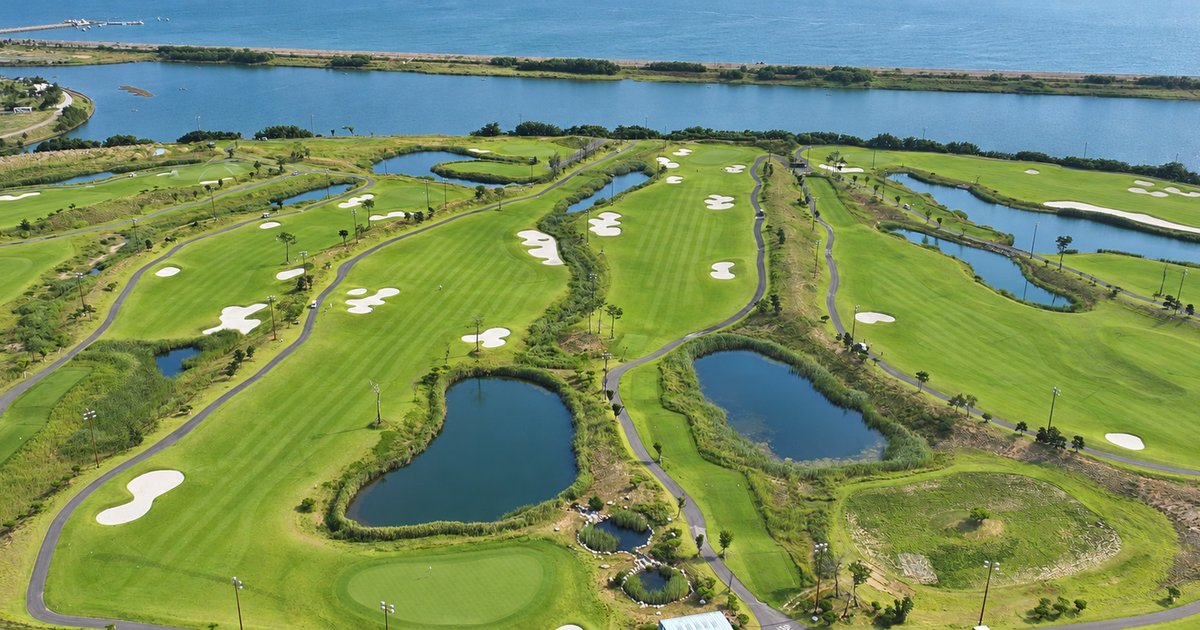
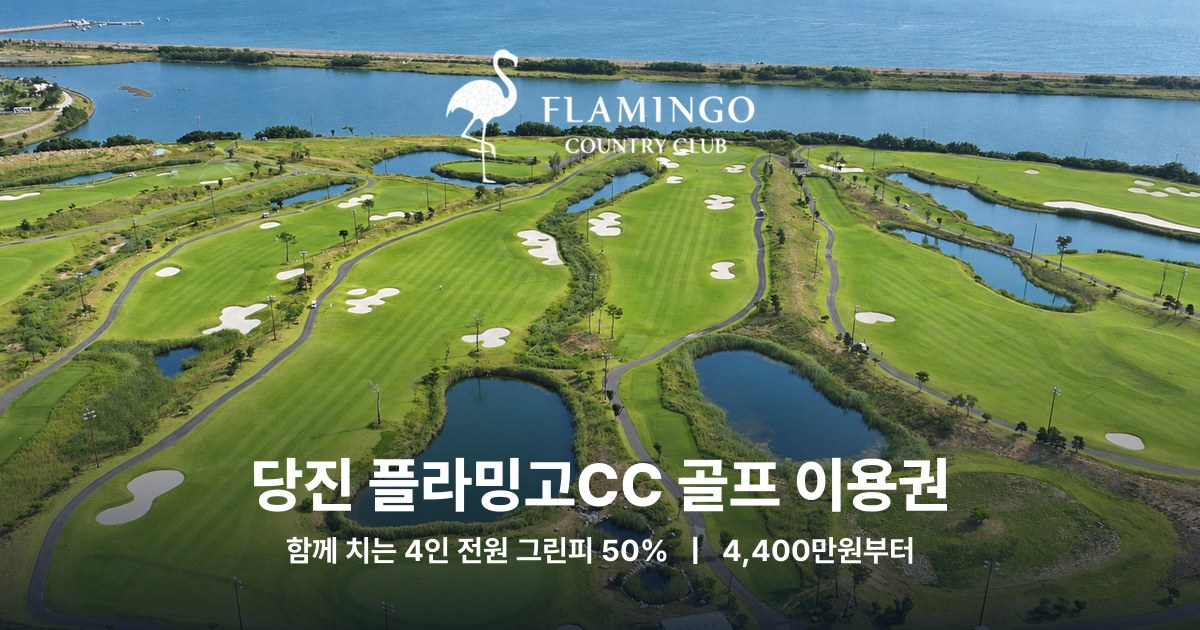
OG 이미지: 항공 사진 + 흰 로고 + 제목·훅

diff --git a/index.html b/index.html
@@ -17,7 +17,7 @@
   <meta property="og:url" content="https://culeisure.github.io/flamingocc/" />
   <meta property="og:title" content="당진 플라밍고CC 이용권" />
   <meta property="og:description" content="4인 전원 그린피 50% 할인. P3 4,400만원 · P4 9,900만원, 10년 만기 이용권" />
-  <meta property="og:image" content="https://culeisure.github.io/flamingocc/img/og.jpg" />
+  <meta property="og:image" content="https://culeisure.github.io/flamingocc/img/og.jpg?v=2" />
   <meta property="og:image:width" content="1200" />
   <meta property="og:image:height" content="630" />
   <meta name="twitter:card" content="summary_large_image" />
